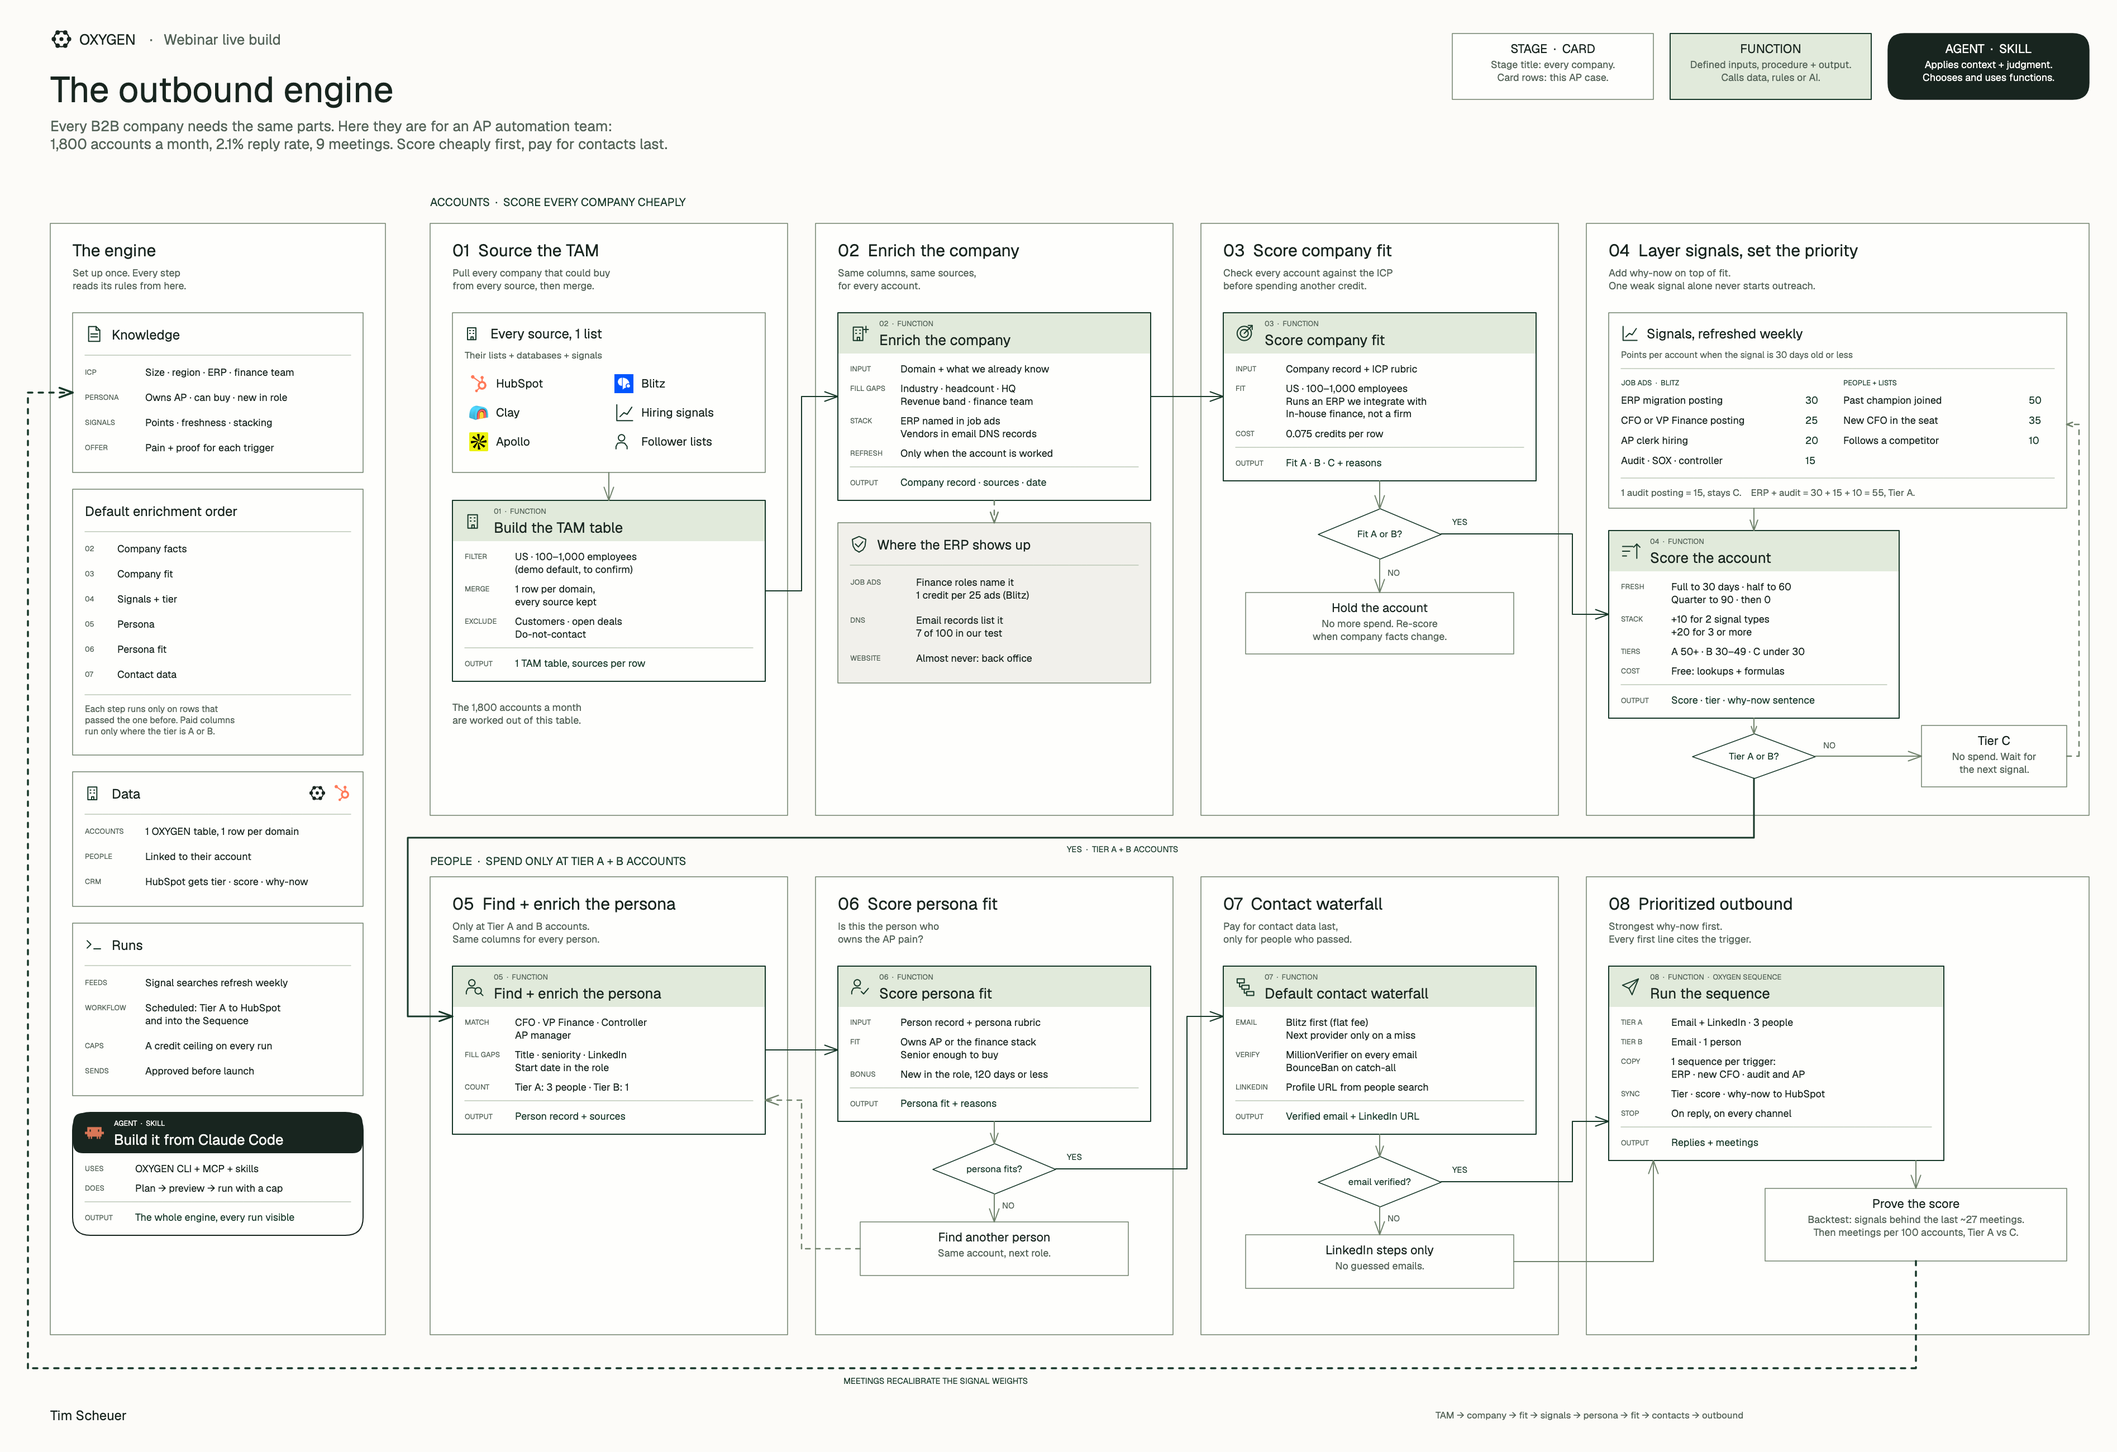
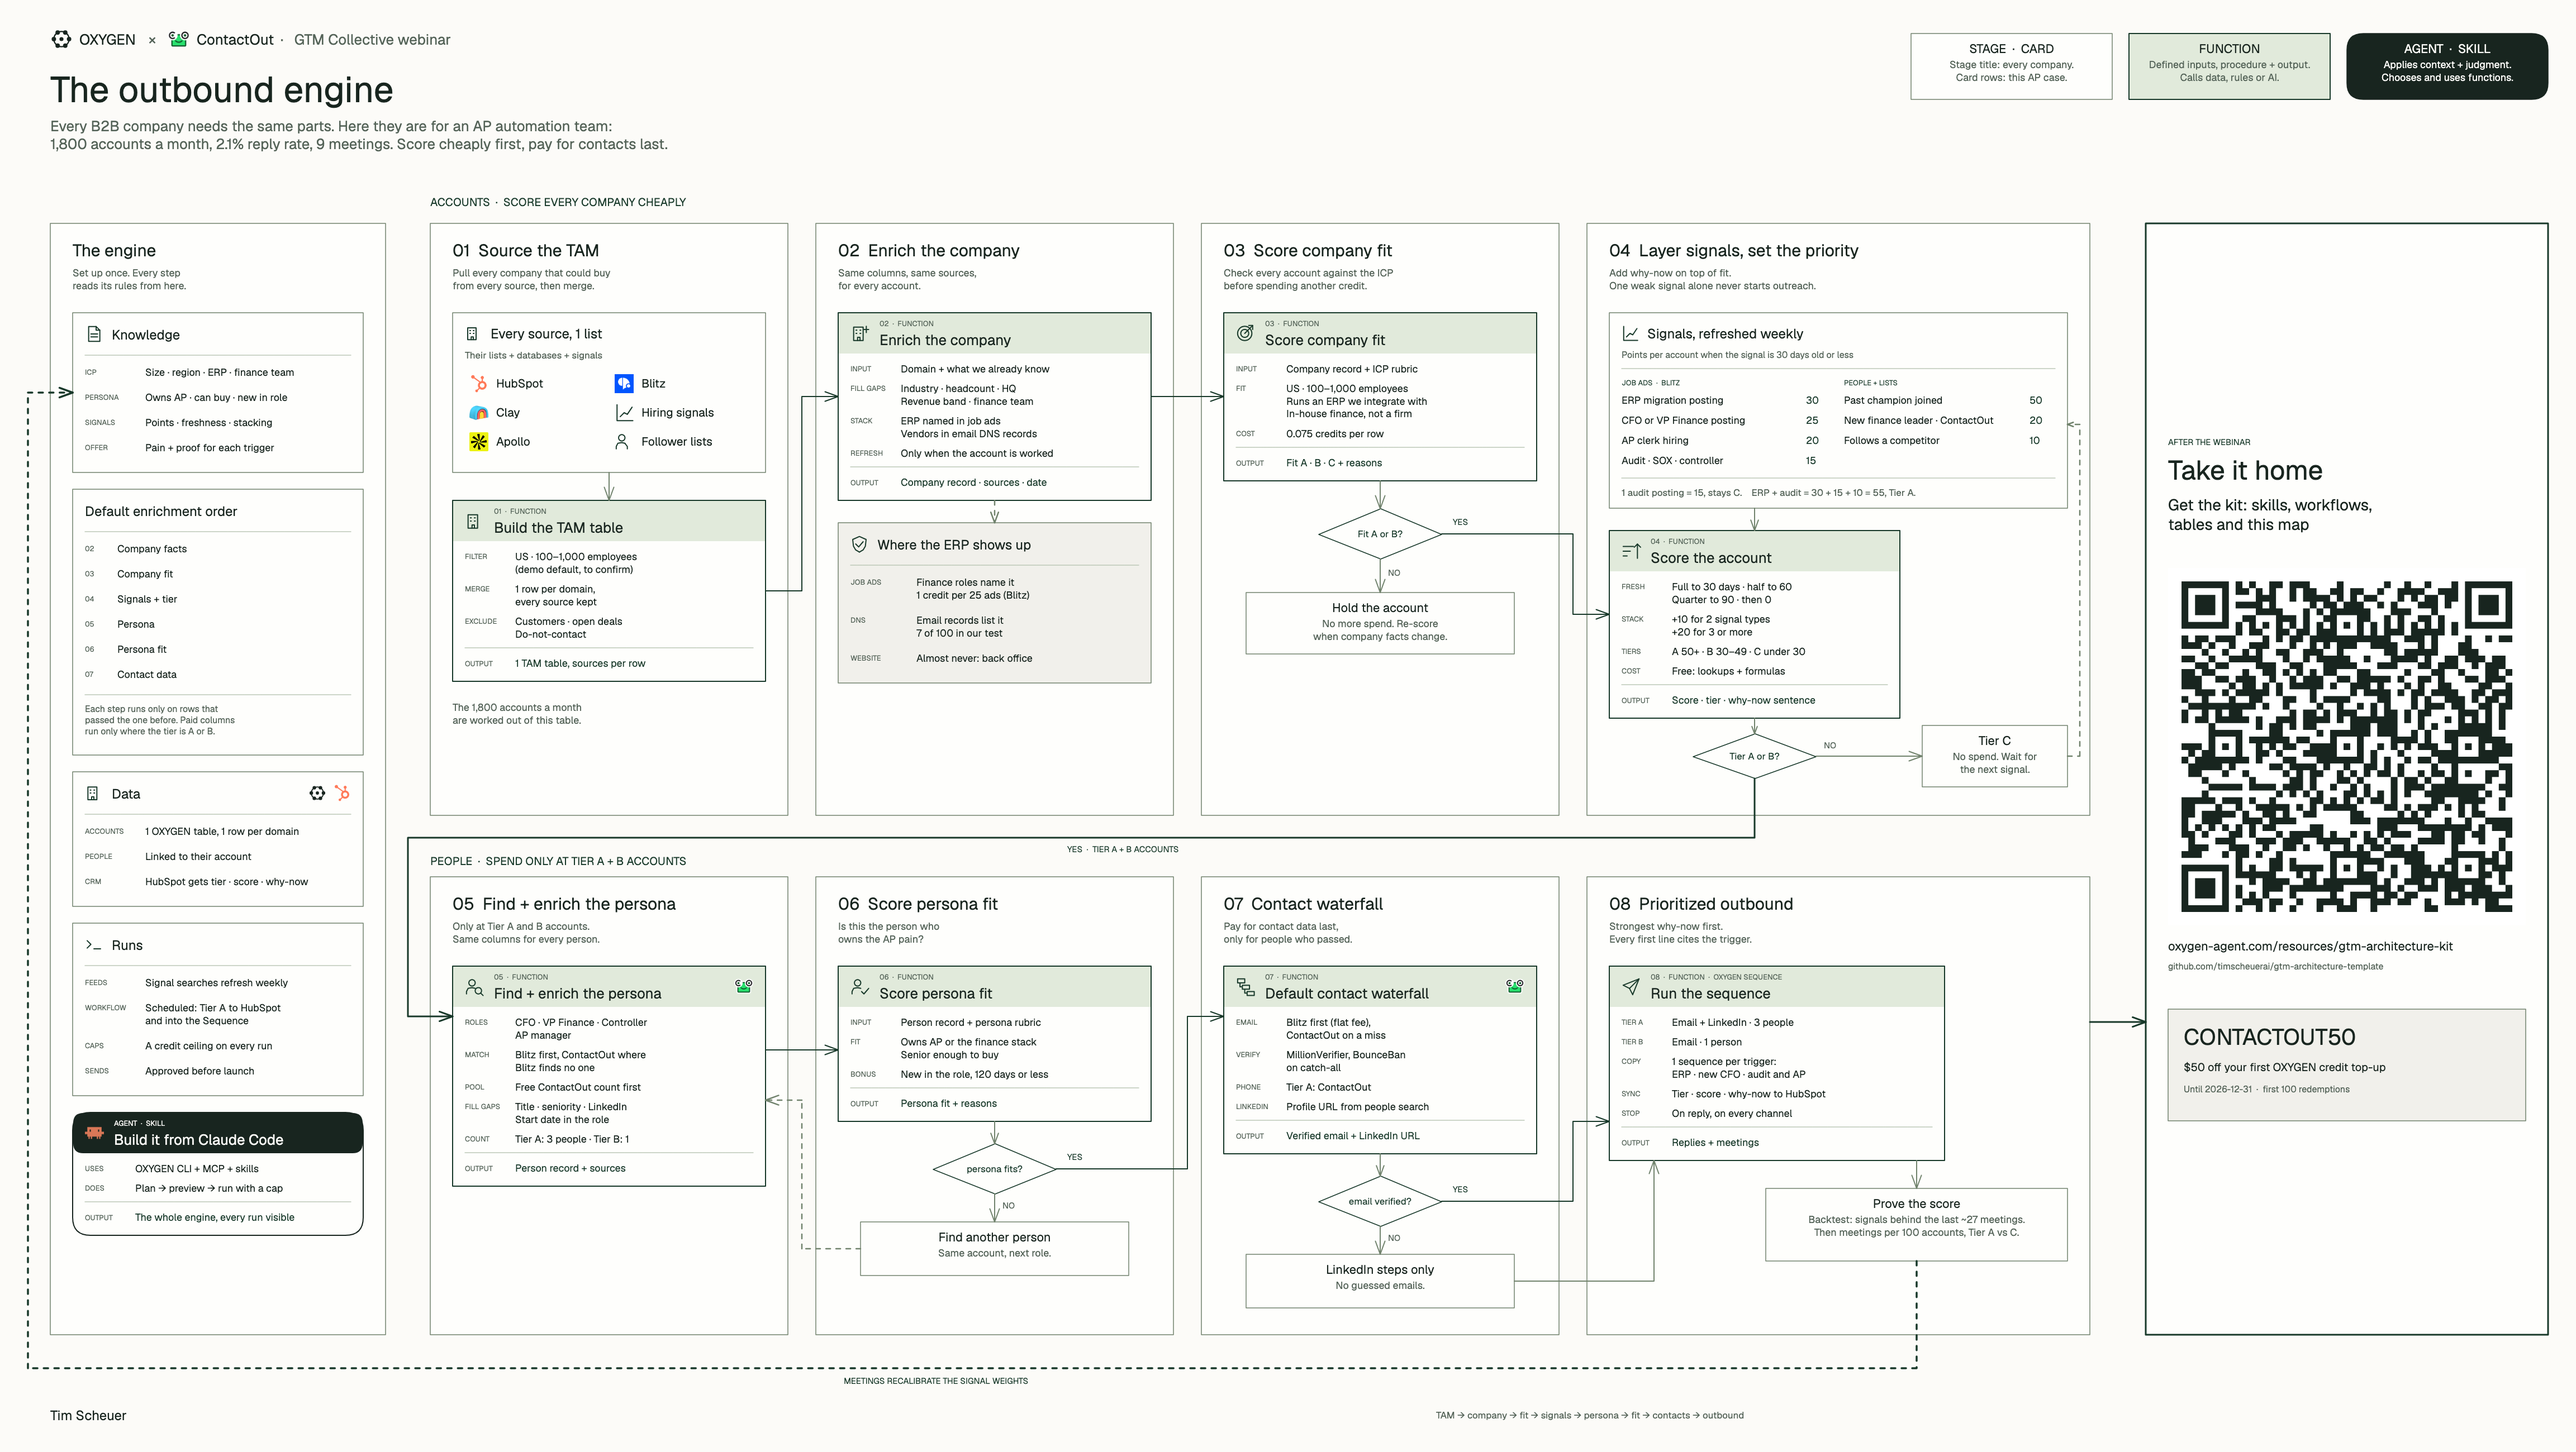
AP example: ContactOut layer results, wiring map, verification in W2 (0.4.1)
Free ContactOut counts of new finance leaders lift the run to 7 Tier A + 3
Tier B and 13 buyers; ContactOut found 4 of 12 emails. Adds the wiring map
and the refreshed outbound-engine map with the take-it-home panel. W2 now
runs MillionVerifier and BounceBan on catch-all.

diff --git a/examples/ap-automation-signal-engine/workflows/w2-tier-ab-to-buyers.ts b/examples/ap-automation-signal-engine/workflows/w2-tier-ab-to-buyers.ts
@@ -294,6 +294,38 @@ export default defineRecipe({
       }, { key: "email-waterfall" });
     }
 
+    // 6. Verify every found email (MillionVerifier, about 0.23 a row), then
+    //    BounceBan (1.7) only where MillionVerifier says catch-all.
+    if (fitting.length > 0) {
+      await ctx.wait("let-emails-land", { seconds: 120 });
+      const withEmail = rowsOf(await ctx.tools.run("oxygen.rows_query", {
+        table: BUYERS,
+        fields: ["_row_id", "email"],
+        limit: 5000,
+      }, { key: "read-emails" }))
+        .filter((row) => fitting.includes(String(row._row_id)) && typeof row.email === "string" && row.email)
+        .map((row) => String(row._row_id));
+      if (withEmail.length > 0) {
+        await ctx.tools.run("oxygen_columns_run", {
+          table: BUYERS,
+          column: "email_verification",
+          selection: { mode: "row_ids", row_ids: withEmail },
+          approved: true,
+          max_credits: Math.ceil(withEmail.length * 0.3),
+          idempotency_key: `w2-verify-${withEmail[0]}-${withEmail.length}`,
+        }, { key: "verify-emails" });
+        await ctx.wait("let-verification-land", { seconds: 60 });
+        await ctx.tools.run("oxygen_columns_run", {
+          table: BUYERS,
+          column: "bounceban_check",
+          selection: { mode: "row_ids", row_ids: withEmail },
+          approved: true,
+          max_credits: Math.ceil(withEmail.length * 1.8),
+          idempotency_key: `w2-bounceban-${withEmail[0]}-${withEmail.length}`,
+        }, { key: "bounceban-catch-all" });
+      }
+    }
+
     return { accounts: accounts.length, buyers: newIds.length, persona_fit: fitting.length };
   },
 });

diff --git a/examples/ap-automation-signal-engine/README.md b/examples/ap-automation-signal-engine/README.md
@@ -29,21 +29,26 @@ Column-by-column definitions, prompts and formulas: [tables.md](tables.md).
 
 ## What the build produced
 
-**385 accounts → 180 Fit B (0 Fit A) → 3 Tier B → 1 buyer → 1 approval waiting**, for about 320 credits in total. Nothing was sent.
+**First pass, Blitz signals only:** 385 accounts → 180 Fit B (0 Fit A) → 3 Tier B → 1 buyer. A market-wide sample rarely hits the same company twice, so single signals stayed below the line.
 
-- **Tier B:** three accounts, each with a fresh ERP-migration posting: a furniture manufacturer naming SAP, a construction firm naming Microsoft Dynamics and a logistics software firm naming NetSuite.
+**With the ContactOut layer:** 385 accounts → 180 Fit B → 82 with a new finance leader → **7 Tier A + 3 Tier B** → 13 buyers → 12 emails (4 found by ContactOut) → 1 approval to enroll 13. About 480 credits in total. Nothing was sent.
+
+- **How Tier A happens:** fresh AP or CFO hiring, a finance leader new in the seat, and the stacking bonus. An aerospace parts maker with 4 AP postings scored 25 + 20 + 10 = 55.
+- **Tier B:** fresh ERP-migration postings at a furniture manufacturer naming SAP, a construction firm naming Microsoft Dynamics and a logistics software firm naming NetSuite.
 - **The weak-signal rule worked:** single AP, CFO or audit postings scored 15 to 25 and stayed Tier C.
 - **The size gate stopped spend:** a defense contractor, a big-box retailer and an EV maker all name SAP in their job ads and stayed Fit C on size.
-- **Why-now spend:** 12 credits for the 3 Tier B accounts. The same column on all 385 accounts would have cost about 1,540.
-- **The buyer:** one controller, classified Champion. No email was found, so 0 credits were charged and the buyer goes to LinkedIn steps only.
+- **Why-now spend:** about 4 credits a row at Tier A/B only. The same column on all 385 accounts would cost about 1,540.
+- **Buyers:** CFOs (economic buyers), controllers (champions) and AP managers (users). MillionVerifier checked every email; BounceBan ran on the one catch-all.
+
+![How the engine is wired](diagrams/ap-engine-wiring.png)
 
 ## ContactOut in the engine
 
 The webinar was co-marketed with ContactOut, which slots into four places:
 
 1. **Size the pool for free.** `contactout.people_count` takes up to 50 domains and a list of titles per call and costs nothing. At the 179 Fit B accounts it counted 820 finance buyers, about 98% of them with an estimated work email.
-2. **A new-CFO signal nobody else covers.** The same free count with `years_in_current_role: ["0_1"]` finds finance leaders in their first year. At the first 50 Fit B accounts it counted 35. W1b writes this count to Accounts as a 20-point signal.
-3. **The waterfall.** Work email runs Blitz first and ContactOut on a miss, billed only on a hit. The free `work_email_status` and `phone_status` checks say whether ContactOut holds the data before you pay; phone runs for Tier A only.
+2. **A new-CFO signal nobody else covers.** The same free count with `years_in_current_role: ["0_1"]`, run once per account, finds finance leaders in their first year. W1b found one at 82 of 180 fit accounts and writes the count to Accounts as a 20-point signal. It is the layer that turned single hiring signals into Tier A.
+3. **The waterfall.** Work email runs Blitz first and ContactOut on a miss, billed only on a hit. In the build ContactOut found 4 of the 12 emails, all ones Blitz missed. The free `work_email_status` and `phone_status` checks say whether ContactOut holds the data before you pay; phone runs for Tier A only.
 4. **Past champions.** `contactout.email_profile_enrich` turns a former customer contact's old work email into their current profile, so a job change shows up (16.5 credits a check).
 
 ## Workflows
@@ -53,8 +58,8 @@ Recipe source in [workflows/](workflows). Each runs on demand here; the producti
 | Workflow | What it does | Ceiling per run |
 |---|---|---|
 | W1 Signals into Accounts | Stores the signal formulas, adds kept hiring companies that are new to Accounts, enriches them, waits, runs AP Company Fit | 400 |
-| W1b New finance leaders | Free ContactOut count of leaders under 1 year in role per Fit A/B account | 0 credits |
-| W2 Tier A/B to buyers | Stores the Accounts values, finds buyers (Blitz, then ContactOut), writes why-now, runs persona fit and the email waterfall | 300 |
+| W1b New finance leaders | Free ContactOut count of leaders under 1 year in role per Fit A/B account | 20 (the counts are free; each workflow step is metered at about 0.05) |
+| W2 Tier A/B to buyers | Stores the Accounts values, finds buyers (Blitz, then ContactOut), writes why-now, runs persona fit, the email waterfall, MillionVerifier and BounceBan on catch-all | 300 |
 | W3 Route to outbound | Picks the Sequence from the top trigger, **pauses for a human approval**, then enrolls into a draft Sequence | 5 |
 
 Next: W4 reads each account's SPF record weekly through a DNS-over-HTTPS GET (the native `oxygen.http_json_request` step, or a custom HTTP integration) and records newly added finance vendors as signals. W5 checks past champions monthly.

diff --git a/CHANGELOG.md b/CHANGELOG.md
@@ -1,5 +1,11 @@
 # Changelog
 
+## 0.4.1 · 2026-11-19
+
+- The AP example now reports the run with the ContactOut layer. Free counts of new finance leaders lift it to 7 Tier A and 3 Tier B accounts and 13 buyers, and ContactOut found 4 of the 12 emails.
+- Added the "How the engine is wired" map and refreshed "The outbound engine" map, both ending with the take-it-home panel.
+- W2 now verifies every found email with MillionVerifier and sends catch-all addresses to BounceBan.
+
 ## 0.4.0 · 2026-11-19
 
 - Added the [AP automation signal engine](examples/ap-automation-signal-engine/README.md) worked example from the ContactOut x GTM Collective webinar: invented ICP, buyers and signal weights; every table, formula and prompt; recipes W1, W1b, W2 and W3; four draft Sequences; measured costs and the funnel.
